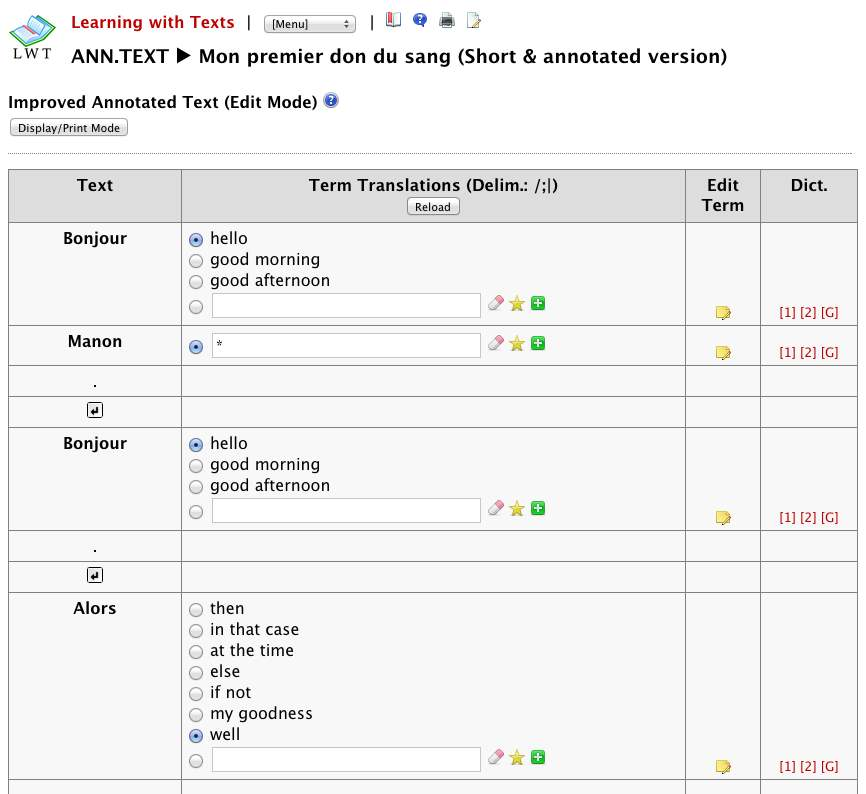
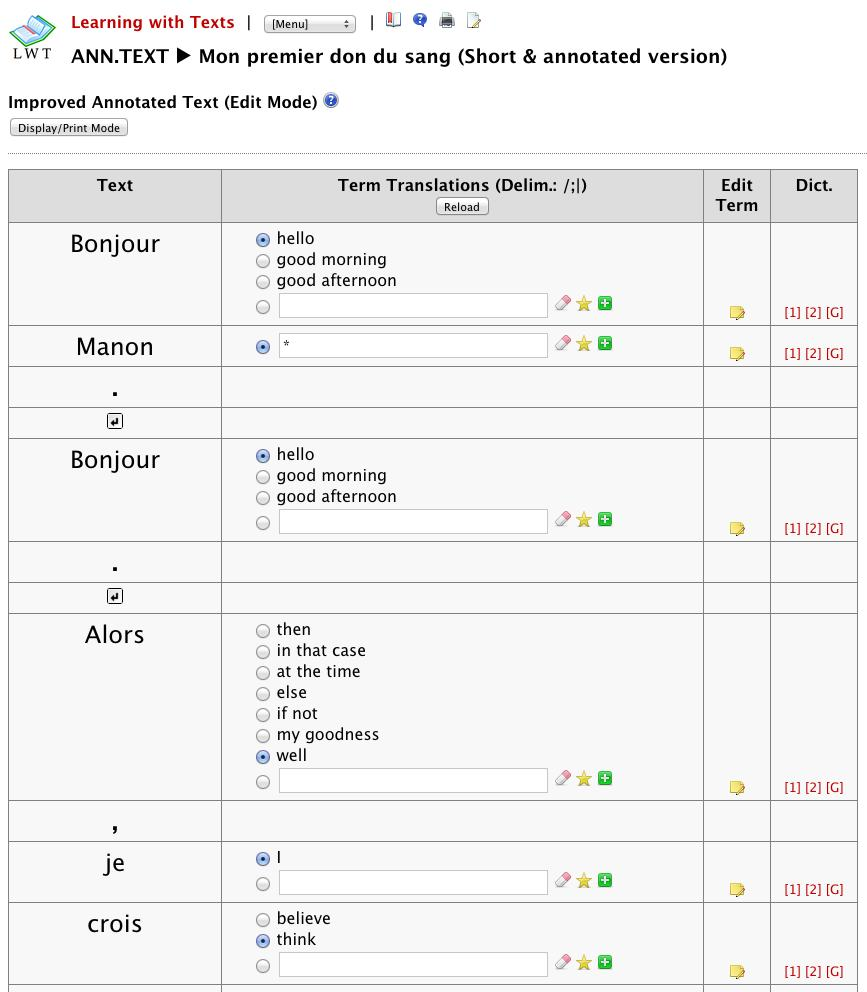
Version 1.5.0 (20-Apr-2013 19:58)

diff --git a/css/styles.css b/css/styles.css
@@ -384,6 +384,7 @@ dt {
 }
 .nowrap {
 	white-space: nowrap;
+	margin-left: 20pt;
 }
 
 /**************************************************************

diff --git a/ajax_edit_impr_text.php b/ajax_edit_impr_text.php
@@ -66,6 +66,15 @@ $title = $record['TxTitle'];
 $langid = $record['TxLgID'];
 mysql_free_result($res);
 
+$sql = 'select LgTextSize, LgRemoveSpaces, LgRightToLeft from languages where LgID = ' . $langid;
+$res = mysql_query($sql);		
+if ($res == FALSE) die("Invalid Query: $sql");
+$record = mysql_fetch_assoc($res);
+$textsize = $record['LgTextSize'];
+$removeSpaces = $record['LgRemoveSpaces'];
+$rtlScript = $record['LgRightToLeft'];
+mysql_free_result($res);
+
 $ann = get_first_value("select TxAnnotatedText as value from texts where TxID = " . $textid);
 $ann_exists = (strlen($ann) > 0);
 if ($ann_exists) {
@@ -97,9 +106,10 @@ foreach ($items as $item) {
 			}
 		}
 		if (count($vals) > 3) $trans = $vals[3];
-		$r .= '<tr><td class="td1 center"><span id="term' . $i . '"><b>';
+		$r .= '<tr><td class="td1 center" style="font-size:' . $textsize . '%;"' . 
+			($rtlScript ? ' dir="rtl"' : '') . '><span id="term' . $i . '">';
 		$r .= tohtml($vals[1]);
-		$r .= '</b></span></td>';
+		$r .= '</span></td>';
 		$r .= '<td class="td1">';
 		$r .= make_trans($i, $id, $trans, $vals[1], $langid);
 		$r .= '</td><td class="td1bot center">';
@@ -113,7 +123,7 @@ foreach ($items as $item) {
 		$r .= '</td></tr>';
 	} else {
 		if (trim($vals[1]) != '') {
-			$r .= '<tr><td class="td1 center">';
+			$r .= '<tr><td class="td1 center" style="font-size:' . $textsize . '%; font-weight:bold;">';
 			$r .= str_replace("¶", '<img src="icn/new_line.png" title="New Line" alt="New Line" />', tohtml($vals[1])); 
 			$r .= '</td><td class="td1">&nbsp;</td><td class="td1">&nbsp;</td><td class="td1">&nbsp;</td></tr>';
 		}

diff --git a/inline_edit.php b/inline_edit.php
@@ -25,6 +25,7 @@ $id = (isset($_POST['id'])) ? $_POST['id'] : "";
 if (substr($id, 0, 5) == "trans") {
 	// usleep(200000);
 	$id = substr($id, 5);
+	if(trim($value) == '') $value='*';
 	$message = runsql('update words set WoTranslation = ' . 
 		convert_string_to_sqlsyntax(repl_tab_nl($value)) . ' where WoID = ' . $id,
 		"");
